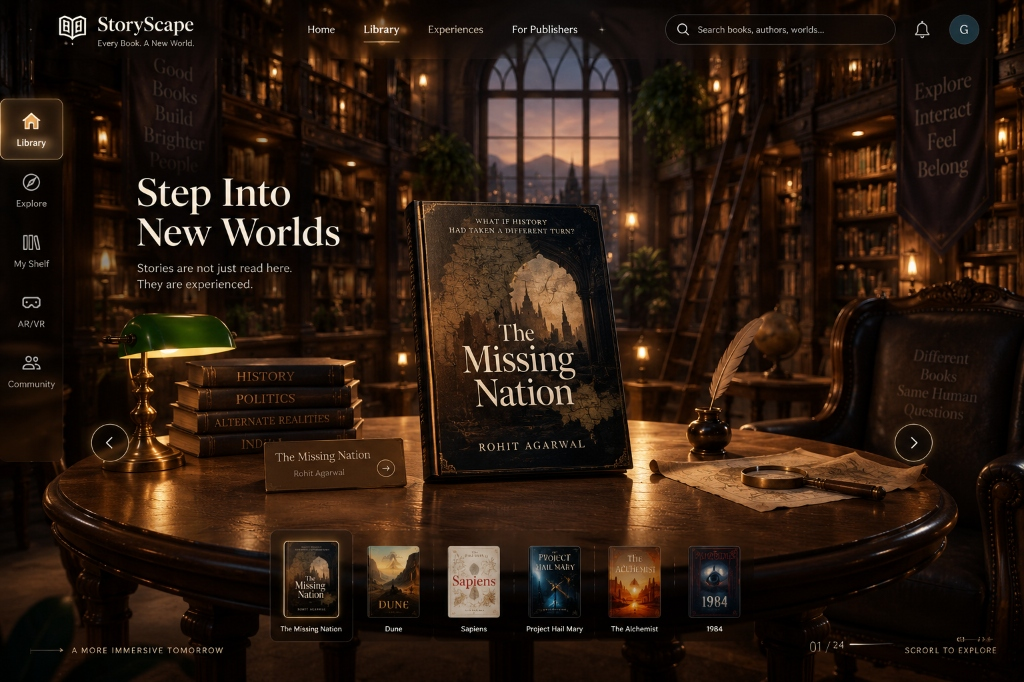
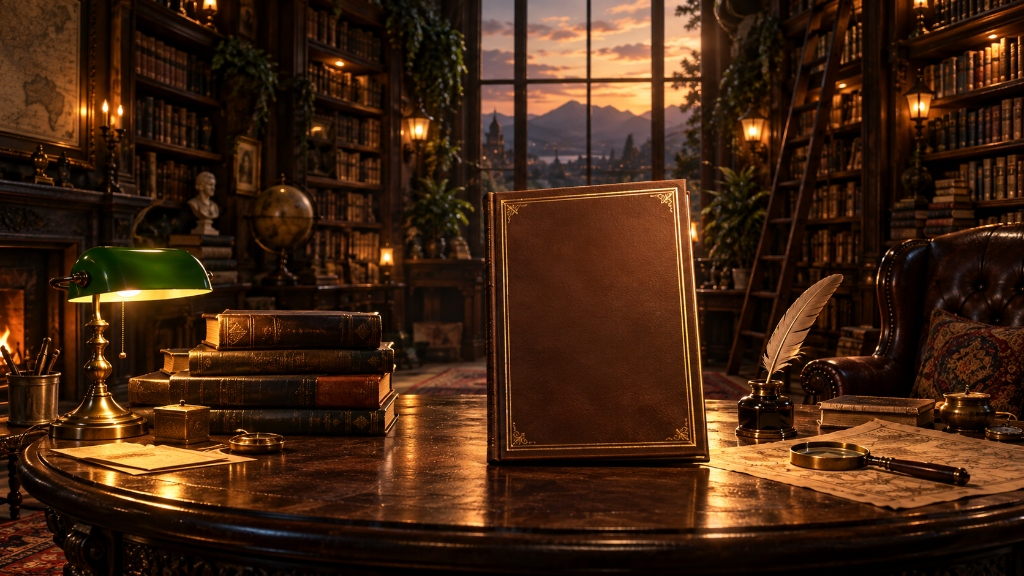
bg updated

diff --git a/index.html b/index.html
@@ -131,7 +131,7 @@
 
   <!-- CLICKABLE TRIGGER HOTSPOT OVER THE 3D BOOK -->
   <div id="book-click-trigger" 
-       class="absolute left-1/2 top-1/2 -translate-x-1/2 -translate-y-1/2 z-30 w-[300px] h-[400px] cursor-pointer rounded-2xl group flex flex-col items-center justify-center pointer-events-auto">
+       class="absolute left-1/2 top-[52%] -translate-x-1/2 -translate-y-1/2 z-30 w-[300px] h-[400px] cursor-pointer rounded-2xl group flex flex-col items-center justify-end pb-24 pointer-events-auto">
     <div class="glass-panel px-5 py-2.5 rounded-full border border-amber-400/60 shadow-2xl flex items-center space-x-2 text-xs text-amber-200 group-hover:scale-110 transition-all duration-300 animate-bounce">
       <i data-lucide="sparkles" class="w-4 h-4 text-amber-400"></i>
       <span class="font-semibold">CLICK BOOK TO ENTER STORY</span>
@@ -393,7 +393,93 @@
 
       <nav class="hidden md:flex items-center space-x-8 text-sm font-medium">
         <button onclick="goToHome()" class="text-amber-300 border-b-2 border-amber-400 pb-1 font-semibold">Library</button>
-        <a href="#" onclick="goToHome()" class="text-amber-100/70 hover:text-amber-300 transition-colors">Experiences</a>
+
+        <!-- EXPERIENCES DROPDOWN CONTAINER -->
+        <div id="experiences-nav-container" class="relative group" onmouseenter="showExperiencesMenu()" onmouseleave="hideExperiencesMenu()">
+          <button id="experiences-nav-btn" onclick="toggleExperiencesMenu()" class="text-amber-100/70 hover:text-amber-300 transition-colors py-2 flex items-center space-x-1 font-semibold focus:outline-none">
+            <span>Experiences</span>
+            <i id="experiences-chevron" data-lucide="chevron-down" class="w-3.5 h-3.5 text-amber-400/70 transition-transform duration-200"></i>
+          </button>
+          
+          <!-- Dropdown Wrapper: Zero position shift, seamless top hover bridge -->
+          <div id="experiences-dropdown" class="absolute left-0 top-full pt-1.5 w-80 opacity-0 pointer-events-none transition-opacity duration-200 z-50 group-hover:opacity-100 group-hover:pointer-events-auto">
+            <!-- Invisible Seamless Hover Bridge -->
+            <div class="absolute -top-3 left-0 w-full h-5 pointer-events-auto"></div>
+
+            <div class="bg-[#0c0a09]/95 backdrop-blur-xl border border-amber-500/30 rounded-2xl p-2.5 shadow-2xl shadow-black/90 pointer-events-auto relative z-10">
+              <div class="px-3 py-2 border-b border-amber-500/15 mb-1.5 flex items-center justify-between">
+                <div>
+                  <p class="font-cinzel text-[10px] font-bold uppercase tracking-widest text-amber-400/90">The Missing Nation</p>
+                  <p class="text-[11px] text-amber-200/50">5 Available Experiences</p>
+                </div>
+                <span class="text-[10px] font-cinzel text-amber-400/60 bg-amber-500/10 px-2 py-0.5 rounded border border-amber-500/20">1982 Lahore</span>
+              </div>
+              
+              <div class="space-y-1">
+                <button onclick="openExperienceNav('visualtexts')" class="w-full text-left p-2.5 rounded-xl hover:bg-amber-500/10 border border-transparent hover:border-amber-500/30 transition-all flex items-start space-x-3 group/item cursor-pointer">
+                  <div class="w-7 h-7 rounded-lg bg-amber-500/15 border border-amber-500/30 flex items-center justify-center text-amber-300 group-hover/item:scale-110 group-hover/item:border-amber-400 transition-transform flex-shrink-0 mt-0.5">
+                    <span class="text-xs">✦</span>
+                  </div>
+                  <div>
+                    <div class="font-cinzel text-xs font-bold text-amber-200 group-hover/item:text-amber-100 flex items-center space-x-1.5">
+                      <span>Interactive Story</span>
+                    </div>
+                    <div class="text-[11px] text-amber-200/60 leading-tight mt-0.5">Make choices and shape the story</div>
+                  </div>
+                </button>
+
+                <button onclick="openExperienceNav('arvrvideo')" class="w-full text-left p-2.5 rounded-xl hover:bg-amber-500/10 border border-transparent hover:border-amber-500/30 transition-all flex items-start space-x-3 group/item cursor-pointer">
+                  <div class="w-7 h-7 rounded-lg bg-amber-500/15 border border-amber-500/30 flex items-center justify-center text-amber-300 group-hover/item:scale-110 group-hover/item:border-amber-400 transition-transform flex-shrink-0 mt-0.5">
+                    <span class="text-xs">◉</span>
+                  </div>
+                  <div>
+                    <div class="font-cinzel text-xs font-bold text-amber-200 group-hover/item:text-amber-100 flex items-center space-x-1.5">
+                      <span>3D World</span>
+                    </div>
+                    <div class="text-[11px] text-amber-200/60 leading-tight mt-0.5">Explore the world of the book</div>
+                  </div>
+                </button>
+
+                <button onclick="openExperienceNav('characters')" class="w-full text-left p-2.5 rounded-xl hover:bg-amber-500/10 border border-transparent hover:border-amber-500/30 transition-all flex items-start space-x-3 group/item cursor-pointer">
+                  <div class="w-7 h-7 rounded-lg bg-amber-500/15 border border-amber-500/30 flex items-center justify-center text-amber-300 group-hover/item:scale-110 group-hover/item:border-amber-400 transition-transform flex-shrink-0 mt-0.5">
+                    <span class="text-xs">♙</span>
+                  </div>
+                  <div>
+                    <div class="font-cinzel text-xs font-bold text-amber-200 group-hover/item:text-amber-100 flex items-center space-x-1.5">
+                      <span>Meet the Characters</span>
+                    </div>
+                    <div class="text-[11px] text-amber-200/60 leading-tight mt-0.5">Discover characters and their stories</div>
+                  </div>
+                </button>
+
+                <button onclick="openExperienceNav('map')" class="w-full text-left p-2.5 rounded-xl hover:bg-amber-500/10 border border-transparent hover:border-amber-500/30 transition-all flex items-start space-x-3 group/item cursor-pointer">
+                  <div class="w-7 h-7 rounded-lg bg-amber-500/15 border border-amber-500/30 flex items-center justify-center text-amber-300 group-hover/item:scale-110 group-hover/item:border-amber-400 transition-transform flex-shrink-0 mt-0.5">
+                    <span class="text-xs">◈</span>
+                  </div>
+                  <div>
+                    <div class="font-cinzel text-xs font-bold text-amber-200 group-hover/item:text-amber-100 flex items-center space-x-1.5">
+                      <span>Story Map</span>
+                    </div>
+                    <div class="text-[11px] text-amber-200/60 leading-tight mt-0.5">Explore important locations</div>
+                  </div>
+                </button>
+
+                <button onclick="openExperienceNav('audiobook')" class="w-full text-left p-2.5 rounded-xl hover:bg-amber-500/10 border border-transparent hover:border-amber-500/30 transition-all flex items-start space-x-3 group/item cursor-pointer">
+                  <div class="w-7 h-7 rounded-lg bg-amber-500/15 border border-amber-500/30 flex items-center justify-center text-amber-300 group-hover/item:scale-110 group-hover/item:border-amber-400 transition-transform flex-shrink-0 mt-0.5">
+                    <span class="text-xs">♪</span>
+                  </div>
+                  <div>
+                    <div class="font-cinzel text-xs font-bold text-amber-200 group-hover/item:text-amber-100 flex items-center space-x-1.5">
+                      <span>Audio Experience</span>
+                    </div>
+                    <div class="text-[11px] text-amber-200/60 leading-tight mt-0.5">Listen to the world of the book</div>
+                  </div>
+                </button>
+              </div>
+            </div>
+          </div>
+        </div>
+
         <button onclick="loginAsRole('Publisher')" class="text-amber-100/70 hover:text-amber-300 transition-colors font-semibold flex items-center space-x-1">
           <i data-lucide="bar-chart-3" class="w-4 h-4 text-purple-400"></i>
           <span>For Publishers</span>
@@ -420,26 +506,8 @@
 
     <!-- MAIN MIDDLE CONTENT -->
     <div class="flex-1 flex justify-between items-center px-8 relative">
-      <div class="glass-panel py-6 px-3 rounded-2xl flex flex-col space-y-6 items-center pointer-events-auto border border-amber-500/30 shadow-2xl">
-        <button onclick="goToHome()" class="group flex flex-col items-center p-3 rounded-xl bg-amber-500/20 border border-amber-400/40 text-amber-300">
-          <i data-lucide="home" class="w-5 h-5 mb-1 group-hover:scale-110 transition-transform"></i>
-          <span class="text-[10px] font-medium">Library</span>
-        </button>
-        <button class="group flex flex-col items-center p-3 rounded-xl hover:bg-amber-500/10 text-amber-200/60 hover:text-amber-300 transition-all">
-          <i data-lucide="compass" class="w-5 h-5 mb-1 group-hover:scale-110 transition-transform"></i>
-          <span class="text-[10px] font-medium">Explore</span>
-        </button>
-        <button class="group flex flex-col items-center p-3 rounded-xl hover:bg-amber-500/10 text-amber-200/60 hover:text-amber-300 transition-all">
-          <i data-lucide="library" class="w-5 h-5 mb-1 group-hover:scale-110 transition-transform"></i>
-          <span class="text-[10px] font-medium">My Shelf</span>
-        </button>
-        <button onclick="animateBookOpeningAndTransition(); selectExperience('visualtexts');" class="group flex flex-col items-center p-3 rounded-xl hover:bg-amber-500/10 text-amber-200/60 hover:text-amber-300 transition-all relative">
-          <i data-lucide="box" class="w-5 h-5 mb-1 group-hover:scale-110 transition-transform"></i>
-          <span class="text-[10px] font-medium">3D Scenes</span>
-        </button>
-      </div>
 
-      <div id="carousel-left-arrow" class="absolute left-1/4 top-1/2 -translate-y-1/2 pointer-events-auto hidden md:block z-20">
+      <div id="carousel-left-arrow" class="absolute left-12 top-1/2 -translate-y-1/2 pointer-events-auto hidden md:block z-20">
         <button id="btn-prev-book" class="p-4 rounded-full glass-button text-amber-200 shadow-2xl">
           <i data-lucide="chevron-left" class="w-6 h-6"></i>
         </button>
@@ -1827,6 +1895,81 @@
       `;
 
       lucide.createIcons();
+    }
+
+    let experiencesMenuTimer = null;
+
+    function showExperiencesMenu() {
+      if (experiencesMenuTimer) {
+        clearTimeout(experiencesMenuTimer);
+        experiencesMenuTimer = null;
+      }
+      const dropdown = document.getElementById('experiences-dropdown');
+      const chevron = document.getElementById('experiences-chevron');
+      if (dropdown) {
+        dropdown.classList.remove('opacity-0', 'pointer-events-none');
+        dropdown.classList.add('opacity-100', 'pointer-events-auto');
+      }
+      if (chevron) {
+        chevron.classList.add('rotate-180');
+      }
+    }
+
+    function hideExperiencesMenu(immediate = false) {
+      if (experiencesMenuTimer) clearTimeout(experiencesMenuTimer);
+      const closeMenu = () => {
+        const dropdown = document.getElementById('experiences-dropdown');
+        const chevron = document.getElementById('experiences-chevron');
+        if (dropdown) {
+          dropdown.classList.add('opacity-0', 'pointer-events-none');
+          dropdown.classList.remove('opacity-100', 'pointer-events-auto');
+        }
+        if (chevron) {
+          chevron.classList.remove('rotate-180');
+        }
+      };
+
+      if (immediate) {
+        closeMenu();
+      } else {
+        experiencesMenuTimer = setTimeout(closeMenu, 200);
+      }
+    }
+
+    function toggleExperiencesMenu() {
+      const dropdown = document.getElementById('experiences-dropdown');
+      if (dropdown && dropdown.classList.contains('opacity-100')) {
+        hideExperiencesMenu(true);
+      } else {
+        showExperiencesMenu();
+      }
+    }
+
+    document.addEventListener('click', (e) => {
+      const container = document.getElementById('experiences-nav-container');
+      if (container && !container.contains(e.target)) {
+        hideExperiencesMenu(true);
+      }
+    });
+
+    document.addEventListener('keydown', (e) => {
+      if (e.key === 'Escape') {
+        hideExperiencesMenu(true);
+      }
+    });
+
+    function openExperienceNav(type) {
+      hideExperiencesMenu(true);
+      const canvasContainer = document.getElementById('canvas-container');
+      if (canvasContainer && !canvasContainer.classList.contains('hidden')) {
+        animateBookOpeningAndTransition();
+      } else {
+        const detailView = document.getElementById('view-experience-detail');
+        const overviewView = document.getElementById('view-cards-overview');
+        if (detailView) detailView.classList.remove('hidden');
+        if (overviewView) overviewView.classList.add('hidden');
+      }
+      selectExperience(type);
     }
 
     function selectExperience(type) {
